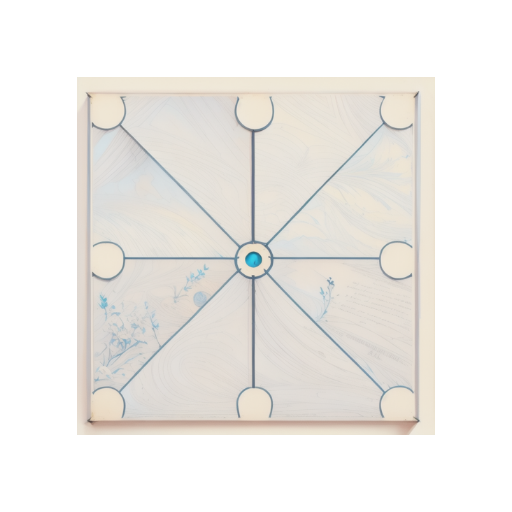
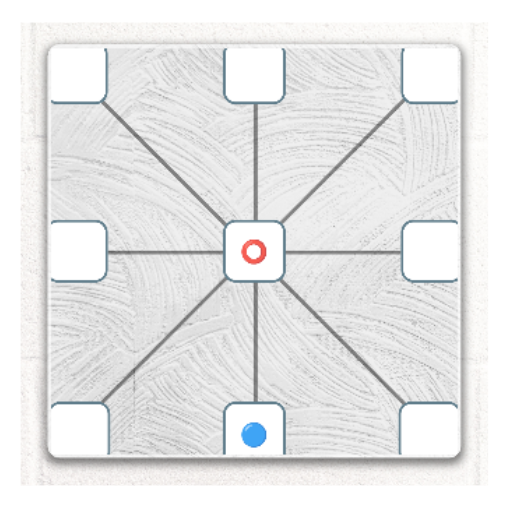
dump: beta

Changed region(s): [[0.0625, 0.0625, 0.9375, 0.9375], [0.7188, 0.4062, 0.75, 0.4375]]

diff --git a/lib/game_screen.dart b/lib/game_screen.dart
@@ -185,21 +185,24 @@ class _IconMatrixBoxState extends State<IconMatrixBox> {
           height: 50,
           width: 120,
           child: ElevatedButton(
-              style: ButtonStyle(backgroundColor: MaterialStateProperty.all(Colors.indigoAccent)),
-              onPressed: () {
-                GameFunctions.reset();
-                setState(() {});
-              },
-              child: Row(
-                children: [
-                  Center(
-                    child: const Text(
-                      'Start Match',
-                      style: TextStyle(fontSize: 15),
-                    ),
+            style: ButtonStyle(backgroundColor: MaterialStateProperty.all(Colors.indigoAccent)),
+            onPressed: () {
+              _showStartMatchConfirmationDialog(
+                context,
+                () => setState(() {}),
+              );
+            },
+            child: Row(
+              children: [
+                Center(
+                  child: const Text(
+                    'Start Game',
+                    style: TextStyle(fontSize: 15),
                   ),
-                ],
-              )),
+                ),
+              ],
+            ),
+          ),
         )),
       ],
     );
@@ -222,7 +225,7 @@ class _IconMatrixBoxState extends State<IconMatrixBox> {
             alignment: Alignment.center,
             decoration: BoxDecoration(
               color: GameFunctions.isChosenToReplace(row: row, column: column) ? Colors.yellowAccent : Colors.white,
-              borderRadius: BorderRadius.circular(15),
+              borderRadius: BorderRadius.circular(10),
               border: Border.all(
                 color: Colors.blueGrey,
                 width: 2,
@@ -245,10 +248,38 @@ class _IconMatrixBoxState extends State<IconMatrixBox> {
 
   String getPlayer(String player) {
     return player == 'X'
-        ? '💙'
+        ? '⭕'
         : player == 'Y'
-            ? '❤'
+            ? '🔵'
             : '';
+  }
+
+  void _showStartMatchConfirmationDialog(BuildContext context, VoidCallback callback) {
+    showDialog(
+      context: context,
+      builder: (BuildContext context) {
+        return AlertDialog(
+          title: Text('Confirmation'),
+          content: Text('Are you sure you want to start the match?'),
+          actions: <Widget>[
+            TextButton(
+              child: Text('Cancel'),
+              onPressed: () {
+                Navigator.of(context).pop();
+              },
+            ),
+            TextButton(
+              child: Text('Start'),
+              onPressed: () {
+                GameFunctions.reset();
+                callback();
+                Navigator.of(context).pop();
+              },
+            ),
+          ],
+        );
+      },
+    );
   }
 }
 

diff --git a/android/app/src/main/kotlin/com/example/panchal/MainActivity.kt b/android/app/src/main/kotlin/com/example/panchal/MainActivity.kt
@@ -1,4 +1,4 @@
-package com.example.panchal
+package com.codesparks.paanchal
 
 import io.flutter.embedding.android.FlutterActivity
 
